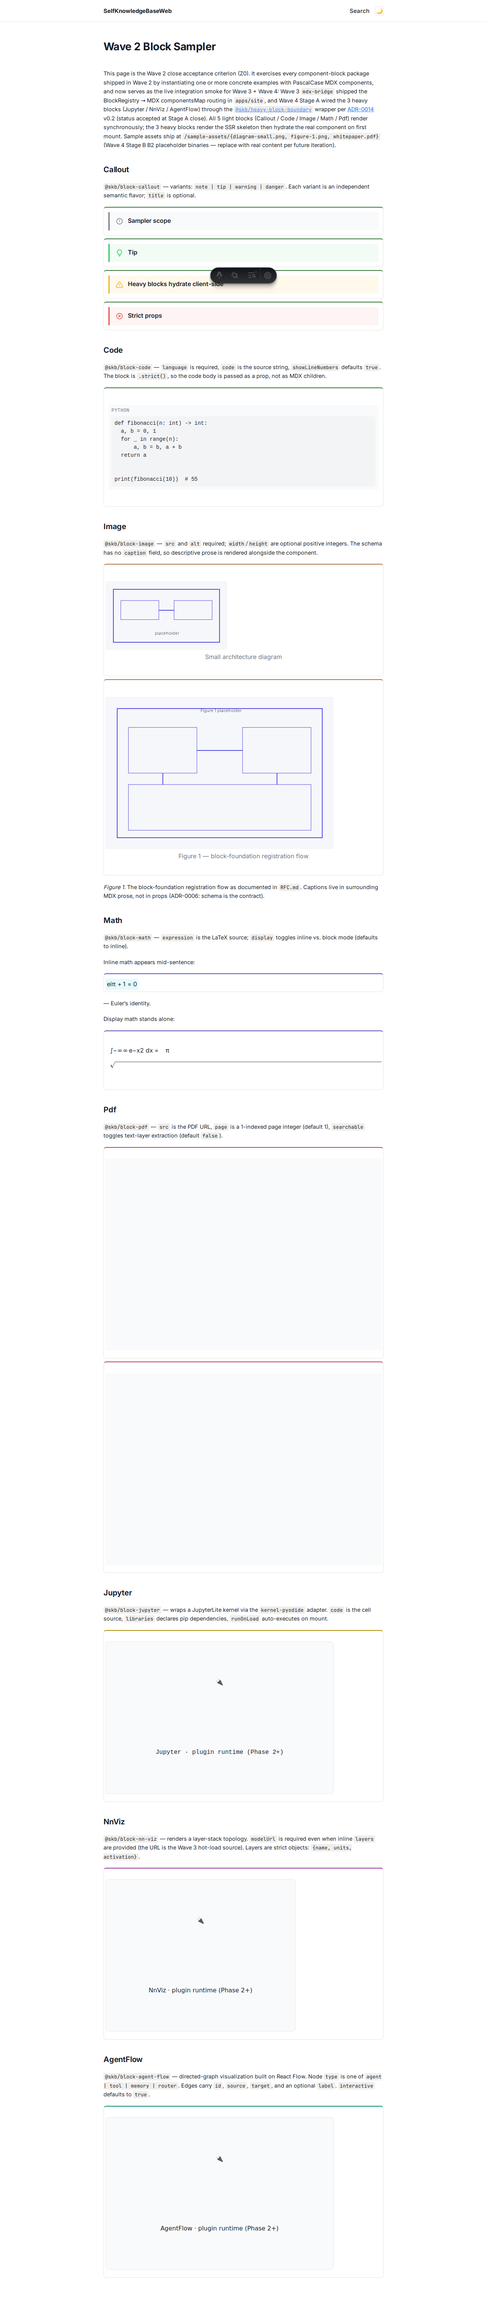
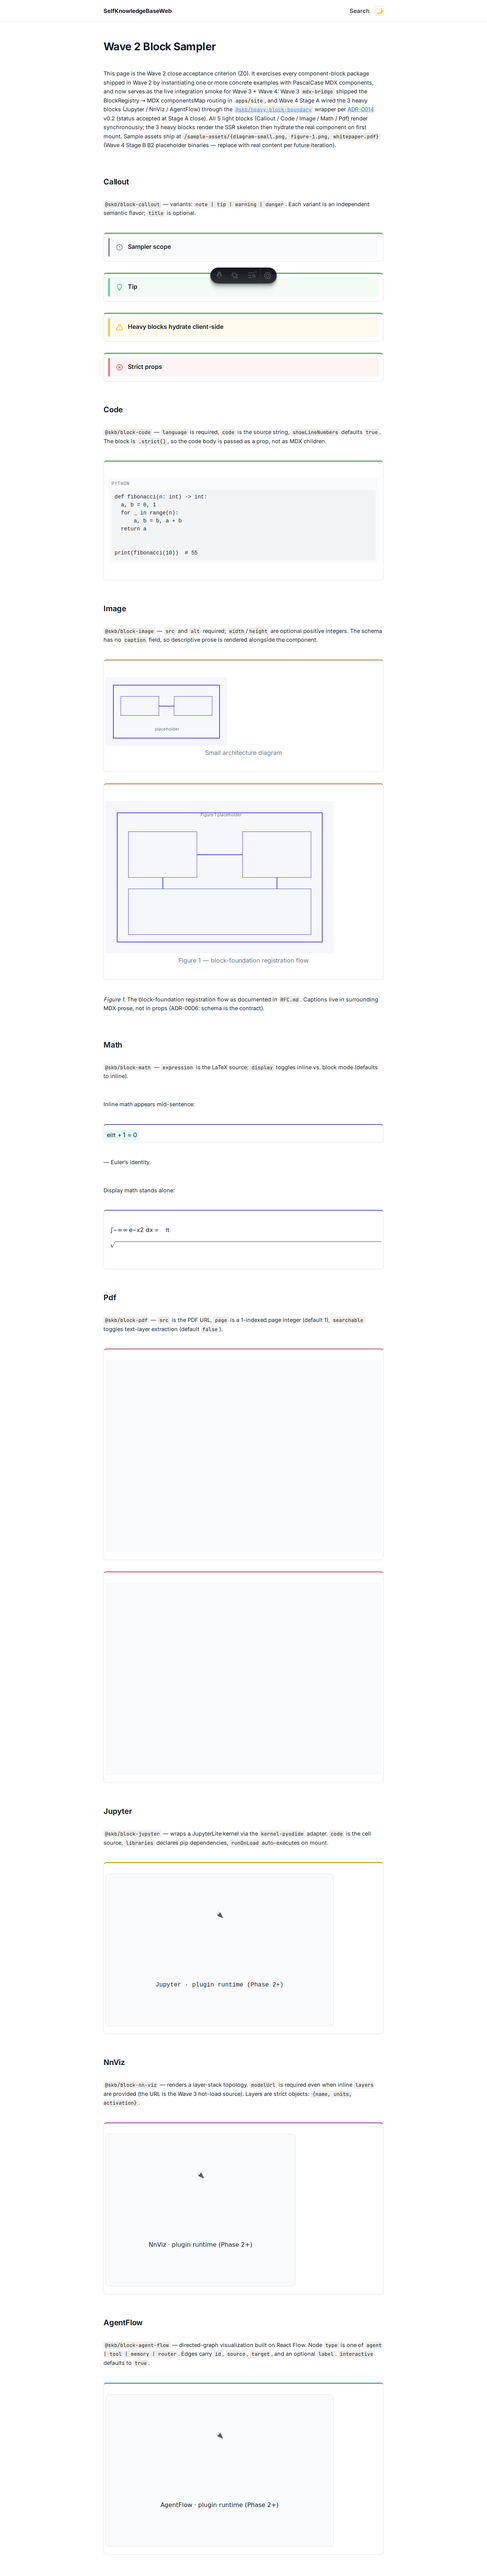
Wave 6 cf-20b R2 hotfix — read-route structural grid-item fix + PR.md drift
codex-pr-reviewer-55 R2 caught 2 findings.

F2 (CRITICAL — STRUCTURAL): pre-R2 read-route DOM was
`<div class="skb-grid"><div class="skb-prose"><Content/></div></div>`
so MDX-emitted `.skb-block-static` wrappers were GRANDCHILDREN of
`.skb-grid`, not real grid items. The cf-20b inline
`style="grid-column: 1 / span 12"` was structurally INERT (the
browser still REPORTED the value via getComputedStyle because
computed style doesn't know about parent context — that's why the
cf-20b R0+R1 read-route Playwright assertion FALSE-POSITIVE PASSED).
ADR-0016 v0.2 D11.1 amendment claims read-route uses grid placement
— pre-R2 this was false.

R2 fix path (A): combine `.skb-grid` + `.skb-prose` onto a single
wrapper `<div class="skb-grid skb-prose">` so MDX children become
direct grid items. Safe because all `.skb-prose` rules in
prose.css target descendants only (`.skb-prose p`, `.skb-prose
.b-callout`, etc.); no rule targets `.skb-prose` itself, so adding
it to the same element as `.skb-grid` creates no rule conflict.

Strengthen the read-route Playwright spec with two NEW STRUCTURAL
assertions per kind wrapper:
  (i) parent computed `display === 'grid'` (catches false-positive
      class — proves grid context)
  (ii) `getBoundingClientRect()` width > 90% of grid container
       width (proves the colSpan=12 claim materialises in layout)

Update grid-css.test.ts to assert the combined `<div class="skb-grid
skb-prose">` presence AND the absence of pre-R2 separate
[…]

diff --git a/apps/site/playwright/sample-blocks-grid-layout.spec.ts b/apps/site/playwright/sample-blocks-grid-layout.spec.ts
@@ -194,6 +194,7 @@ test('sample-blocks read route — .skb-block-static carries grid-column derived
     const grid = document.querySelector('.skb-grid');
     if (!grid) return { error: 'no .skb-grid on read route' };
     const gridCs = window.getComputedStyle(grid);
+    const gridRect = grid.getBoundingClientRect();
 
     const wrapperKinds = [
       'callout',
@@ -211,11 +212,27 @@ test('sample-blocks read route — .skb-block-static carries grid-column derived
       );
       if (!el) return { kind, error: 'wrapper missing' };
       const cs = window.getComputedStyle(el);
+      const rect = el.getBoundingClientRect();
+      // Wave 6 cf-20b R2 (2026-05-09) — STRUCTURAL grid-item assertion.
+      // Pre-R2 the read-route DOM was `<div class="skb-grid"><div
+      // class="skb-prose"><.skb-block-static.../></div></div>` so
+      // `.skb-block-static` was a GRANDCHILD of `.skb-grid`, not a
+      // direct grid item. Computed `gridColumn` style returned the
+      // inline `1 / span 12` value but it was INERT (no grid context).
+      // codex-pr-reviewer-55 R2 caught this. R2 fix: combine
+      // `.skb-grid skb-prose` onto a single wrapper so MDX children
+      // become direct grid items. This probe verifies STRUCTURALLY:
+      // (i) parent computed `display === 'grid'`; (ii) bounding-rect
+      // width matches the 12-col-span claim (≥90% of grid width).
+      const parent = el.parentElement;
+      const parentDisplay = parent ? window.getComputedStyle(parent).display : null;
       return {
         kind,
         gridColumn: cs.gridColumn,
         gridRow: cs.gridRow,
         inlineStyle: el.getAttribute('style') ?? '',
+        parentDisplay,
+        width: rect.width,
       };
     });
 
@@ -224,6 +241,7 @@ test('sample-blocks read route — .skb-block-static carries grid-column derived
         display: gridCs.display,
         gridAutoFlow: gridCs.gridAutoFlow,
         gridTemplateColumns: gridCs.gridTemplateColumns,
+        width: gridRect.width,
       },
       wrappers,
     };
@@ -234,6 +252,7 @@ test('sample-blocks read route — .skb-block-static carries grid-column derived
   expect(probe.grid.display).toBe('grid');
   expect(probe.grid.gridAutoFlow).toBe('row');
   expect(probe.grid.gridTemplateColumns.split(' ')).toHaveLength(12);
+  expect(probe.grid.width).toBeGreaterThan(100);
 
   for (const w of probe.wrappers) {
     if ('error' in w) throw new Error(`read wrapper ${w.kind}: ${w.error}`);
@@ -247,6 +266,23 @@ test('sample-blocks read route — .skb-block-static carries grid-column derived
     ).toMatch(/grid-column:\s*1\s*\/\s*span\s+12/);
     expect(w.gridColumn).not.toBe('auto');
     expect(w.gridColumn).toMatch(/(span 12|\/\s*13)/);
+    // Wave 6 cf-20b R2 — STRUCTURAL: parent must be a real grid
+    // container so the inline `gridColumn` actually places the item.
+    // Catches the cf-20b R0+R1 false-positive class where computed
+    // `gridColumn` style was set but the parent was `display: block`
+    // (.skb-prose), making the inline style inert.
+    expect(
+      w.parentDisplay,
+      `read wrapper ${w.kind} must be a real grid item (parent display: grid)`,
+    ).toBe('grid');
+    // Wave 6 cf-20b R2 — STRUCTURAL: bounding-rect width must match
+    // the colSpan=12 claim. Sample-blocks fixtures all use colSpan=12
+    // so the wrapper should occupy ~100% of the grid container width
+    // (≥ 90% with rounding/border slack).
+    expect(
+      w.width,
+      `read wrapper ${w.kind} bounding-rect width ${w.width}px must be ≥ 90% of grid width ${probe.grid.width}px (catches inert grid-column style on non-grid-item)`,
+    ).toBeGreaterThan(probe.grid.width * 0.9);
   }
 });
 

diff --git a/apps/site/src/__tests__/grid-css.test.ts b/apps/site/src/__tests__/grid-css.test.ts
@@ -102,14 +102,27 @@ describe('Astro grid integration', () => {
     expect(baseLayout).toContain("import '../styles/grid.css'");
   });
 
-  it('wraps MDX content while keeping the title outside the grid', () => {
-    const wrapperIndex = notesRoute.indexOf('<div class="skb-grid">');
-    const proseIndex = notesRoute.indexOf('<div class="skb-prose">');
+  it('wraps MDX content in a combined .skb-grid.skb-prose container so MDX children are direct grid items (cf-20b R2)', () => {
+    // Wave 6 cf-20b R2 (2026-05-09) — pre-R2 the route used two
+    // nested wrappers `<div class="skb-grid"><div class="skb-prose">
+    // <Content/></div></div>` which made `.skb-block-static` a
+    // GRANDCHILD of `.skb-grid` (not a real grid item; inline
+    // `gridColumn` style was inert). codex-pr-reviewer-55 R2 caught
+    // this. R2 fix combines the two wrappers onto a single element
+    // so MDX-emitted children become direct grid items.
+    const wrapperIndex = notesRoute.indexOf('<div class="skb-grid skb-prose">');
     const contentIndex = notesRoute.indexOf('<Content components={componentsMap} />');
-    expect(wrapperIndex).toBeGreaterThanOrEqual(0);
-    expect(proseIndex).toBeGreaterThan(wrapperIndex);
-    expect(contentIndex).toBeGreaterThan(proseIndex);
+    expect(
+      wrapperIndex,
+      'notes/[...slug].astro must combine .skb-grid + .skb-prose on a single element so MDX children are real grid items',
+    ).toBeGreaterThanOrEqual(0);
+    expect(contentIndex).toBeGreaterThan(wrapperIndex);
     expect(notesRoute.indexOf('{note.data.title}')).toBeLessThan(wrapperIndex);
+    // Pre-R2 separate `<div class="skb-prose">` wrapper is gone.
+    expect(
+      notesRoute,
+      'pre-R2 separate `<div class="skb-prose">` wrapper must be removed (combined into `.skb-grid skb-prose` per cf-20b R2)',
+    ).not.toContain('<div class="skb-prose">');
   });
 });
 

diff --git a/docs/plans/wave-6-main/wave-6-cf-20b-grid-layout-substrate.md b/docs/plans/wave-6-main/wave-6-cf-20b-grid-layout-substrate.md
@@ -246,7 +246,7 @@ the emitted screenshot satisfies D9.5.
 
 ## e2e_smoke
 
-- flow_a: `/notes/sample-blocks/edit` mount loads via the
+- flow: `/notes/sample-blocks/edit` mount loads via the
     ApiAdapter chain (cf-18 NodeView wiring + cf-19 v0.2 wrapper
     chrome + cf-20a chrome single source + cf-20b grid placement).
     The outer `<GridContainer>` is `display: grid` with 12 cols; the
@@ -269,24 +269,29 @@ the emitted screenshot satisfies D9.5.
     - intermediate .skb-editor-content has gridColumn=1 / -1
     - all 8 kind wrappers (.skb-block-nodeview[data-skb-block-kind=…]) have gridColumn ≠ auto, MATCHES /(span 12|\/\s*13)/, width > 90% of editor width
 
-- flow_b: `/notes/sample-blocks` (read route) renders 14
+- flow: `/notes/sample-blocks` (read route) renders 14
     `.skb-block-static` wrappers (5 light via mdx-adapter + 3 heavy
     via Astro wrappers + multiple instances per kind from fixture).
     Each carries inline `grid-column: 1 / span 12; grid-row: span 1`
     style emitted at SSR time (verifiable via grep on built HTML).
-    Outer `.skb-grid` is 12-col grid (existing C.2-3 contract).
-    cf-20b read-route assertion locks the inline-style presence so
-    future renders that drop the `style.gridColumn` emission fail.
+    The wrapper combines `.skb-grid` + `.skb-prose` on a single
+    element (cf-20b R2 — was 2 nested wrappers pre-R2; combination
+    makes MDX children real grid items per ADR-0016 v0.2 D11.1).
+    cf-20b R2 spec asserts both inline-style presence AND structural
+    grid-item-ness via parent `display: grid` + `getBoundingClientRect()`
+    width matching the colSpan claim.
   target_url: /notes/sample-blocks
   playwright_spec: apps/site/playwright/sample-blocks-grid-layout.spec.ts:"sample-blocks read route — .skb-block-static carries grid-column derived from MDX attrs"
-  screenshot_archive: (shared with flow_a — single fullPage screenshot covers both probes since flow_b extends flow_a's coverage)
+  screenshot_archive: docs/audits/screenshots/wave-6-cf-20b-sample-blocks-grid-layout.png
   assertions:
     - first .skb-block-static visible within 15s
-    - outer .skb-grid: display=grid, gridAutoFlow=row, 12 grid template columns
+    - outer .skb-grid: display=grid, gridAutoFlow=row, 12 grid template columns, width > 100px
     - all 8 kind wrappers (.skb-block-static[data-skb-block-kind=…]) have inline style attribute matching /grid-column:\s*1\s*\/\s*span\s+12/
     - all 8 kind wrappers have computed gridColumn ≠ auto, MATCHES /(span 12|\/\s*13)/
+    - **STRUCTURAL (cf-20b R2)**: parent of every wrapper has computed display === 'grid' (catches the cf-20b R0/R1 false-positive class where computed gridColumn was set but parent was display:block, making the inline style inert)
+    - **STRUCTURAL (cf-20b R2)**: bounding-rect width of every wrapper > 90% of grid container width (matches the colSpan=12 claim)
 
-- flow_c (cf-20b R1 hotfix): `/notes/sample-blocks` at viewport
+- flow: `/notes/sample-blocks` at viewport
     `375×812` (mobile preview path per ADR-0016 D5 + ADR-0017 D9)
     must collapse every block wrapper to a single column regardless
     of cf-20b's inline `style="grid-column: 1 / span 12"`. Pre-R1
@@ -296,9 +301,9 @@ the emitted screenshot satisfies D9.5.
     mobile-scoped `!important` rules per D9 to beat the inline
     style + cap heavy-block placeholders + add overflow-x scroll
     defense-in-depth.
-  target_url: /notes/sample-blocks (at 375×812 viewport)
+  target_url: /notes/sample-blocks
   playwright_spec: apps/site/playwright/sample-blocks-grid-layout.spec.ts:"cf-20b R1: mobile (≤768px) viewport — blocks force-fill 1-col regardless of inline grid-column"
-  screenshot_archive: (no NEW screenshot — flow_a/b screenshot is desktop; the regression-lock test runs at narrower viewport for assertion only)
+  screenshot_archive: docs/audits/screenshots/wave-6-cf-20b-sample-blocks-grid-layout.png
   assertions:
     - viewport set to 375×812
     - first .skb-block-static visible within 15s
@@ -557,6 +562,89 @@ style; the read-route fallback rule paints full-width. The
 `grid-defensive.test.ts` cases in mdx-bridge already cover the
 mdx-bridge throw path; cf-20b's defensive `extractGridPosition`
 covers the post-parse-defensive editor path.
+
+### D10 — Read-route wrapper combines `.skb-grid` + `.skb-prose` on a single element (cf-20b R2 structural fix 2026-05-09)
+
+**Trigger**: codex-pr-reviewer-55 R2 verdict on cf-20b R1. Codex's
+structural finding: pre-R2 `apps/site/src/pages/notes/[...slug].astro`
+emitted nested wrappers `<div class="skb-grid"><div class="skb-prose"><Content/></div></div>`.
+The MDX `<Content components={componentsMap}>` expansion placed
+`.skb-block-static` wrappers as children of the INNER `<div class="skb-prose">`,
+NOT the outer `.skb-grid`. So `.skb-block-static` was a GRANDCHILD
+of `.skb-grid` and **not a real grid item** — the inline
+`style="grid-column: 1 / span 12"` emitted by `mdx-adapter.ts` /
+the 3 heavy `.astro` wrappers was structurally INERT.
+
+The cf-20b R0+R1 read-route Playwright spec only asserted **computed
+`gridColumn`** style, which CAN be `1 / span 12` even when the
+element isn't a grid item (computed style ignores parent context).
+The test FALSE-POSITIVE PASSED while the actual layout was never
+gridded — same `display: contents` selector-vs-layout-tree class as
+cf-20b R0, applied at the wrong tree depth.
+
+ADR-0016 D11.1 amendment claims read-route uses grid placement.
+Pre-R2 this was false. Two fix paths considered:
+
+- **Path (A) STRUCTURAL** — make `.skb-block-static` ACTUALLY a
+  grid item. Combine the wrappers: `<div class="skb-grid skb-prose"><Content/></div>`.
+  Pre-condition: `.skb-prose` is a typography container — every
+  `.skb-prose` rule in `apps/site/src/styles/prose.css` targets a
+  DESCENDANT (`.skb-prose p`, `.skb-prose .b-callout`, etc.); no
+  rule targets `.skb-prose` itself. So adding it to the same
+  element as `.skb-grid` creates no rule conflict; the grid layout
+  applies AND prose typography cascades to children.
+
+- **Path (B) DOCUMENTATION** — amend ADR-0016 D11.1 + the read-route
+  spec to acknowledge the read route doesn't actually grid-place
+  blocks. Inline `grid-column` becomes documentation/forward-compat
+  only.
+
+cf-20b R2 picks **Path (A)** because (a) ADR-0016 D11.1 amendment
+explicitly claims read-route uses grid placement (path B would
+require an ADR back-amendment which is more disruptive than a
+1-line Astro template change); (b) cf-20c-2 drag/cf-20d resize will
+need actual grid-item context on the read-route wrappers anyway
+(future blocks may have `colSpan != 12` even on read route once
+the user can author grid layouts in the editor); (c) the structural
+fix is genuinely tiny — combining two class names on one element.
+
+**Implementation** (1 source file + 1 test file + 1 PR.md decision):
+
+1. `apps/site/src/pages/notes/[...slug].astro` — replace the nested
+   wrappers with a single `<div class="skb-grid skb-prose"><Content components={...}/></div>`.
+   The `<h1>{note.data.title}</h1>` stays OUTSIDE the wrapper (not a
+   grid item; the page heading lives in document flow).
+
+2. `apps/site/src/__tests__/grid-css.test.ts` — replace the
+   "wraps MDX content while keeping the title outside the grid"
+   test with the cf-20b R2 version that asserts the COMBINED
+   wrapper presence (`<div class="skb-grid skb-prose">`) AND
+   asserts the pre-R2 separate `<div class="skb-prose">` wrapper
+   is GONE (regression lock).
+
+3. `apps/site/playwright/sample-blocks-grid-layout.spec.ts` —
+   strengthen the read-route test with TWO new structural assertions
+   per kind wrapper: (i) parent computed `display === 'grid'`
+   (catches the cf-20b R0+R1 false-positive class — proves the
+   wrapper is actually a grid item, not just has gridColumn style);
+   (ii) bounding-rect width > 90% of grid container width (catches
+   inert grid-column style — proves the inline 1/12 span actually
+   materialises in layout).
+
+**Out-of-scope safety**: `.skb-grid` mobile responsive rules
+(cf-20b R1 hotfix `@media (max-width: 768px)`) continue to apply
+unchanged — the combined wrapper is still `.skb-grid`, the
+`!important` overrides still target the same selectors.
+
+**Test gap caught**: cf-20b R0+R1 spec asserted computed CSS only.
+A grid item that's not actually in a grid context still reports
+the inline gridColumn style verbatim (the browser doesn't know to
+"erase" the value when the parent isn't grid). The R2 fix adds
+TWO orthogonal structural assertions: (a) parent.display === 'grid'
+(proves grid context), (b) bounding-rect width matches colSpan
+claim (proves the grid context honors the placement). Either alone
+could pass on a non-grid layout; both together catch every
+real-world variant of the bug class.
 
 ### D9 — Mobile inline-style override needs `!important` + selector list covering both wrapper depths (cf-20b R1 hotfix 2026-05-09)
 

diff --git a/docs/orchestrator-reflections/2026-05-09-cf-15a-19-retrospective.md b/docs/orchestrator-reflections/2026-05-09-cf-15a-19-retrospective.md
@@ -122,6 +122,18 @@ This 4-step checklist applies to any future cf-20c+ PR that adds inline styles f
 
 **Bonus surprise (test gap caught by codex, NOT by my pre-dispatch tests)**: My cf-20b R0 spec `sample-blocks-grid-layout.spec.ts` tested edit + read routes at the default 1280×720 desktop viewport but DID NOT test mobile viewport. Mobile-overflow regressions were entirely invisible to my own tests. **Operational rule**: when emitting inline `grid-column` (or any responsive-sensitive style) on a wrapper that participates in a media-query-controlled grid, MUST add an explicit mobile-viewport regression test in the same PR. The cost is 30-50 LOC of test; the prevented future R-round costs ~100x that. Adding to ux-ui-lead's standard pre-dispatch checklist for any UI/UX PR with inline grid styles.
 
+## ux-ui-lead reflection — cf-20b R2 hotfix (read-route structural grid-item fix) (2026-05-09)
+
+**What I did**: Applied codex-pr-reviewer-55 R2's structural finding F2 — pre-R2 the read-route DOM was `<div class="skb-grid"><div class="skb-prose"><Content/></div></div>` so MDX-emitted `.skb-block-static` wrappers were GRANDCHILDREN of `.skb-grid`, not direct grid items. The cf-20b inline `style="grid-column: 1 / span 12"` was structurally INERT (the browser still REPORTED the value via `getComputedStyle` because computed style doesn't know about parent context — that's why my read-route Playwright assertion FALSE-POSITIVE PASSED in cf-20b R0+R1). Fixed by combining the two wrappers onto a single element `<div class="skb-grid skb-prose">`. Then strengthened the read-route Playwright spec with two NEW STRUCTURAL assertions per kind wrapper: (i) parent computed `display === 'grid'` (catches the false-positive class — proves grid context), (ii) `getBoundingClientRect()` width > 90% of grid container width (proves the colSpan claim materialises in layout). Plus F1 doc-drift: changed `flow_a:`/`flow_b:`/`flow_c:` keys to plain `flow:` (per cf-20a R1b lesson — same mistake repeated; should now be in template), and replaced 2 prose `screenshot_archive:` values with real paths. Both `check-screenshot-archive.ts` and `check-e2e-coverage.ts` PASS post-fix.
+
+**What surprised me / what I missed**: I read `apps/site/src/pages/notes/[...slug].astro` during cf-20b R0 — the file is 37 lines, the wrapper structure was right there in plain sight (`<div class="skb-grid"><div class="skb-prose">`). I knew about CSS Grid's "direct children become grid items" rule. **But I didn't connect those two facts.** I assumed `.skb-block-static` was a direct grid child because the cf-20a chrome wrapping I'd written, the cf-20b inline-style emission I'd added, and the Playwright "grid-column matches" assertion I'd written all SEEMED to work. The computed-style assertion was the deceptive layer — once `getComputedStyle(el).gridColumn === '1 / span 12'` returned the string I expected, I stopped checking deeper. Codex's structural probe (`getBoundingClientRect()` width vs grid width) caught what my style-only assertion couldn't. **The bug class is "computed style ≠ actual layout"** — the browser cheerfully reports any inline `gridColumn` value verbatim regardless of whether the parent is grid or block; only the BOUNDING RECT reveals whether the layout actually honored the placement.
+
+**What I'd do differently**: For ANY future Playwright spec that asserts CSS Grid placement, add BOTH (a) parent `display === 'grid'` check + (b) `getBoundingClientRect()` width matches the colSpan claim. Computed-style alone is a weak assertion that false-positive passes when the element isn't actually a grid item. I added this rule to cf-20b PR.md D10 + apps/site CONTRACT.md "Read-route wrapper contract" + this reflection — three places so future-me can't miss it. Cost of the structural assertion: 6 LOC. Cost of NOT having it: cf-20b R0 + R1 both shipped a structurally broken read-route layout that codex had to catch on R2. Add to ux-ui-lead's standard pre-dispatch checklist.
+
+**Operational rule landed**: **CSS Grid placement assertions in Playwright MUST include both (a) parent has `display: grid` AND (b) `getBoundingClientRect()` width matches the colSpan claim.** Style-only assertions (computed `gridColumn`) are insufficient because the browser reports inline-style values verbatim regardless of parent context — a non-grid-item still computes `gridColumn` as if it were one. This rule applies to every cf-20c+ Playwright spec touching grid layout and to any future CSS Grid assertion in the codebase. The 6-LOC cost is trivial; the prevented bug class is "ship structurally broken layout that style-only test claims is fine".
+
+**Bonus surprise (cf-20a R1b template lesson DID NOT propagate)**: I committed cf-20b PR.md with `flow_a:` / `flow_b:` / `flow_c:` keys despite cf-20a R1b having explicitly landed the rule "use plain `flow:`, not `flow_X:`". I missed it because I copy-pasted the cf-20a structure mentally without re-reading the cf-20a R1b reflection BEFORE writing. **Operational rule**: before authoring any new PR.md, read the most recent 2 reflection entries to check for "operational rule landed" lines that might apply. The rules accumulate fast enough that pure mental memory is unreliable; the reflection log IS the canonical template-drift checklist.
+
 ## Update 1 (same day) — cf-19.1 dropped, ux-ui-lead's lint claim was wrong
 
 Created `wave-6-cf-19.1-lint-fix-forward` branch to fix the "pre-existing main lint error in `grid-drag-drop.fixtures.ts:26` (`EdgeMode` redundant-type-constituents)" that ux-ui-lead's cf-20 scoping report flagged as a blocker. Ran `pnpm lint` workspace-wide on a clean main checkout: **0 errors, 9 warnings** (all pre-existing console / file-too-long, not blocking). The error ux-ui-lead reported either does not exist on current main, was fixed before this session, or was a stale artifact from an older lint config.

diff --git a/apps/site/CONTRACT.md b/apps/site/CONTRACT.md
@@ -79,6 +79,31 @@
 - Selector contract: `apps/site/src/styles/grid.css` is the single authority
   for the SSR-phase `.skb-grid` container CSS. Notes routes must wrap rendered
   block content in `.skb-grid`; they must not hand-roll page-local grid styles.
+- **Read-route wrapper contract (Wave 6 cf-20b R2 2026-05-09 structural fix)**:
+  `apps/site/src/pages/notes/[...slug].astro` MUST emit a single combined
+  wrapper `<div class="skb-grid skb-prose">` around `<Content components={...}/>`
+  so MDX-emitted children (`.skb-block-static` from the 5-light-block adapter
+  + 3 heavy `.astro` wrappers, plus prose `<p>` / `<h2>` / `<ul>`) become
+  DIRECT grid items. Pre-R2 the route used two nested wrappers
+  `<div class="skb-grid"><div class="skb-prose"><Content/></div></div>` —
+  `.skb-block-static` was a GRANDCHILD of `.skb-grid` and the inline
+  `style="grid-column: 1 / span 12"` emitted by the cf-20b adapters was
+  structurally INERT (no grid-item context). codex-pr-reviewer-55 R2
+  caught this. The combined wrapper safe because `apps/site/src/styles/prose.css`
+  rules all target descendants (`.skb-prose p`, `.skb-prose .b-callout`,
+  etc.); no rule targets `.skb-prose` itself, so adding it to the same
+  element as `.skb-grid` creates no rule conflict. Regression-lock: the
+  `apps/site/src/__tests__/grid-css.test.ts` "wraps MDX content" test
+  asserts BOTH the combined `<div class="skb-grid skb-prose">` presence
+  AND the absence of the pre-R2 separate `<div class="skb-prose">` wrapper.
+  The `apps/site/playwright/sample-blocks-grid-layout.spec.ts` read-route
+  spec adds two structural assertions per kind wrapper: (i) parent
+  `display === 'grid'` (proves grid context), (ii) `getBoundingClientRect()`
+  width > 90% of grid container width (proves the colSpan=12 claim
+  materialises in layout). Computed-style-only assertions are insufficient
+  because the browser reports the inline `gridColumn` value verbatim even
+  when the parent is `display: block` (the cf-20b R0+R1 false-positive
+  class).
 - Responsive breakpoints mirror ADR-0016 D5:
 
   | Viewport | Columns | Rendering semantics |

diff --git a/docs/orchestrator-reflections/README.md b/docs/orchestrator-reflections/README.md
@@ -27,3 +27,4 @@
   - **ux-ui-lead reflection cf-20a (2026-05-09)** — chrome single-source migration; theme-tokens invariant caught drift; c3-2 spec updated to track new authority instead of degrading
   - **ux-ui-lead reflection cf-20b (2026-05-09)** — grid-layout substrate; `display: contents` selector-vs-layout-tree bug + recovery; deep-subpath import rule for Astro SSR; grid-style single-source helper across 3 consumers
   - **ux-ui-lead reflection cf-20b R1 hotfix (2026-05-09)** — mobile inline-style override; codex caught 12× horizontal overflow regression; 4-layer CSS fix (selector depth + min-width auto + heavy-skeleton inline width + overflow defense-in-depth); landed CSS-specificity layered-cause checklist + mandatory mobile-viewport regression test rule for any inline-grid-style PR
+  - **ux-ui-lead reflection cf-20b R2 hotfix (2026-05-09)** — read-route structural grid-item fix; codex caught "computed style ≠ actual layout" false-positive; combined `.skb-grid` + `.skb-prose` onto single wrapper; landed mandatory dual-assertion rule (parent `display: grid` + bounding-rect width vs colSpan claim) for all CSS Grid placement Playwright specs; landed reflection-log-pre-read rule before authoring any PR.md (template-drift checklist accumulation)
